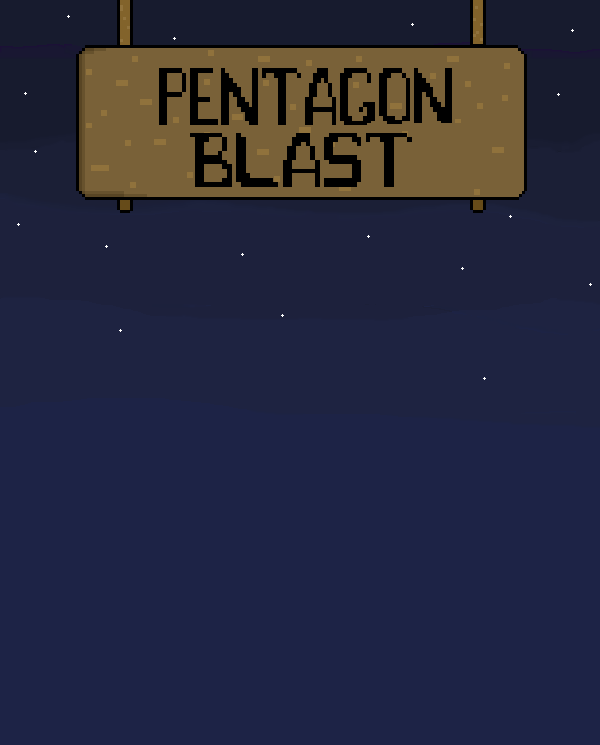
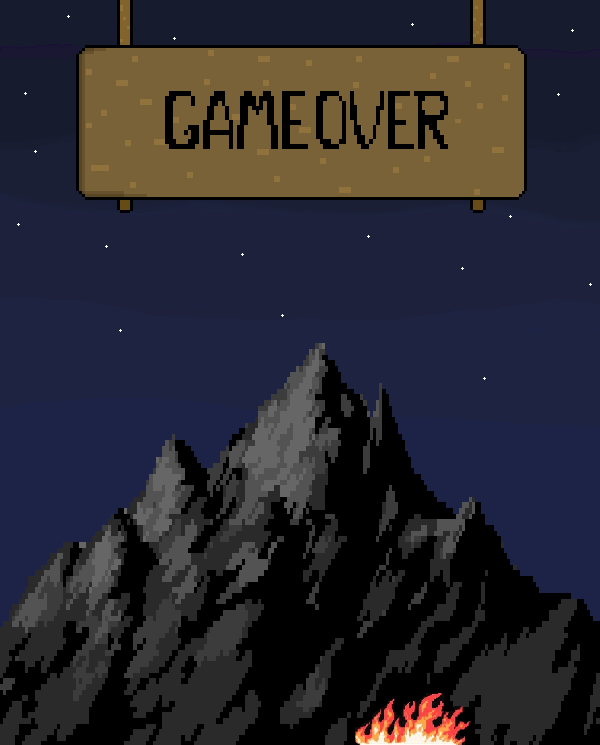
feat (new game)
created game over screen

diff --git a/src/main/java/sample/game/New_Game.java b/src/main/java/sample/game/New_Game.java
@@ -43,15 +43,19 @@ public class New_Game extends Application {
         ImageView backg2 = new ImageView(backgroundImage2);
         Image backgroundImage3 = new Image("backgroundscene3.jpg");
         ImageView backg3 = new ImageView(backgroundImage3);
+        Image backgroundImage4 = new Image("backgroundGameOver.png");
+        ImageView back4 = new ImageView(backgroundImage4);
         Image keys = new Image("wasdImage.jpg");
         ImageView keysImageView = new ImageView(keys);
         VBox layout1 = new VBox(10);
         Pane layout2 = new Pane();
         Pane layout3 = new Pane();
+        Pane layout4 = new Pane();
 
         Scene s1 = new Scene(layout1, 400, 500);
         Scene s2 = new Scene(layout2, 1200, 1000);
         Scene s3 = new Scene(layout3, 800, 500);
+        Scene s4 = new Scene(layout4, 400,500);
 
         // Components
         Character character = new Character("Character", MO.aleatoryPositionX(), MO.aleatoryPositionY(), 40, 40, "Main.png");
@@ -190,16 +194,16 @@ public class New_Game extends Application {
         Button b2 = new Button("Instructions");
         Button b3 = new Button("Return to Menu");
         Button b4 = new Button("Return to Menu");
+        Button b5 = new Button("Menu");
 
 
         VBox.setMargin(b1, new Insets(150, 20, 10, 155)); // cima, direita, baixo, esquerda
         VBox.setMargin(b2, new Insets(10, 20, 10, 155));
         VBox.setMargin(b3, new Insets(10, 20, 10, 155));
         VBox.setMargin(b3, new Insets(500, 10, 10, 300));
+        VBox.setMargin(b5, new Insets(150, 20, 10, 155));
 
-        vbox.getChildren().addAll(b1, b2, b3, b4);
-
-
+        vbox.getChildren().addAll(b1, b2, b3, b4, b5);
 
         String buttonStyle = "-fx-background-color: black;" +
                 "-fx-text-fill: yellow;" +
@@ -214,10 +218,12 @@ public class New_Game extends Application {
         b2.setStyle(buttonStyle);
         b3.setStyle(buttonStyle);
         b4.setStyle(buttonStyle);
+        b5.setStyle(buttonStyle);
 
         BackgroundSize backgroundSize = new BackgroundSize(BackgroundSize.AUTO, BackgroundSize.AUTO, false, false, true, true);
         BackgroundSize backgroundSize2 = new BackgroundSize(BackgroundSize.AUTO, BackgroundSize.AUTO, false, false, true, true);
         BackgroundSize backgroundSize3 = new BackgroundSize(BackgroundSize.AUTO, BackgroundSize.AUTO, false, false, true, true);
+        BackgroundSize backgroundSize4 = new BackgroundSize(BackgroundSize.AUTO, BackgroundSize.AUTO, false, false, true, true);
         BackgroundImage background = new BackgroundImage(
                 backgroundImage,
                 BackgroundRepeat.NO_REPEAT,
@@ -242,9 +248,18 @@ public class New_Game extends Application {
                 backgroundSize
         );
 
+        BackgroundImage background4 = new BackgroundImage(
+                backgroundImage4,
+                BackgroundRepeat.NO_REPEAT,
+                BackgroundRepeat.NO_REPEAT,
+                BackgroundPosition.CENTER,
+                backgroundSize
+        );
+
         layout1.setBackground(new Background(background));
         layout2.setBackground(new Background(background2));
         layout3.setBackground(new Background(background3));
+        layout4.setBackground(new Background(background4));
 
         layout1.setBackground(new Background(background));
 
@@ -312,7 +327,14 @@ public class New_Game extends Application {
 
         });
 
-
+        b5.setOnAction(e -> {
+            primaryStage.setScene(s1);
+            primaryStage.setX(435);
+            primaryStage.setY(45);
+            stopTimer();/*
+            stopBackgroundSound();
+            startThemeSound();*/
+        });
 
         keysImageView.setFitWidth(150); // Defina a largura desejada
         keysImageView.setFitHeight(110); // Defina a altura desejada
@@ -356,7 +378,7 @@ public class New_Game extends Application {
 
 
 
-
+        layout4.getChildren().addAll(b5);
         b4.setLayoutX(680);  // Ajuste a posição X conforme necessário
         b4.setLayoutY(450);  // Ajuste a posição Y conforme necessário
 
@@ -654,6 +676,7 @@ public class New_Game extends Application {
                     heathEmpty2.setVisible(true);
                     heathEmpty3.setVisible(true);
                     heathShield.setVisible(false);
+                    primaryStage.setScene(s4);
                     break;
             }
         });
